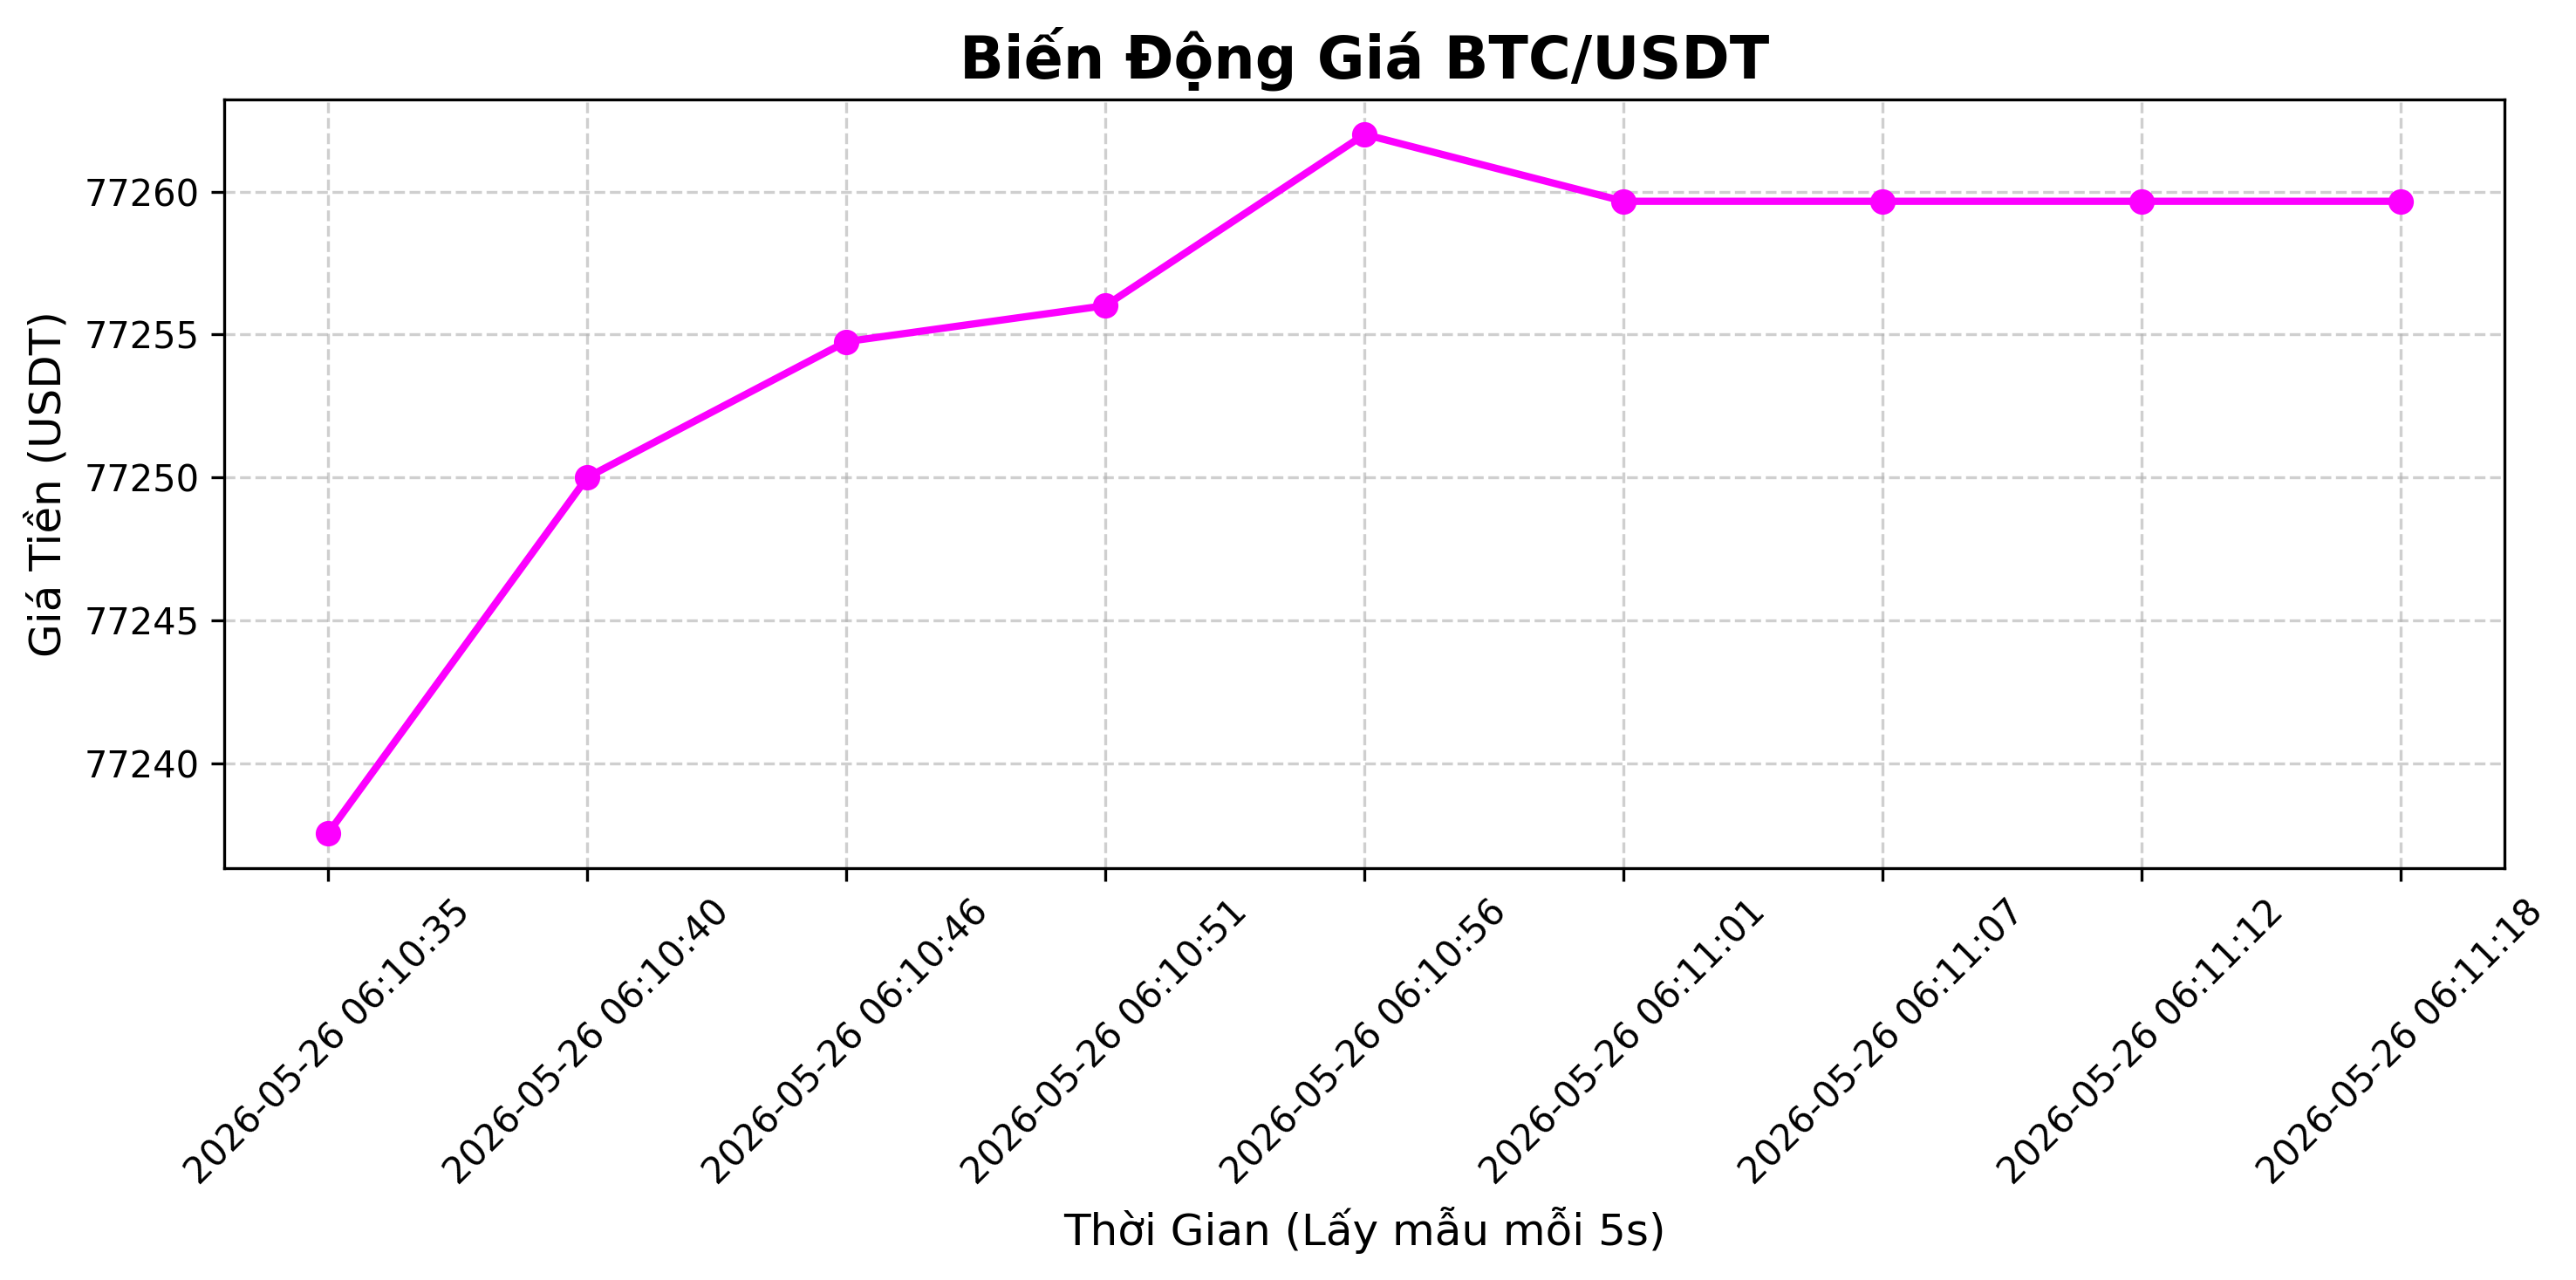
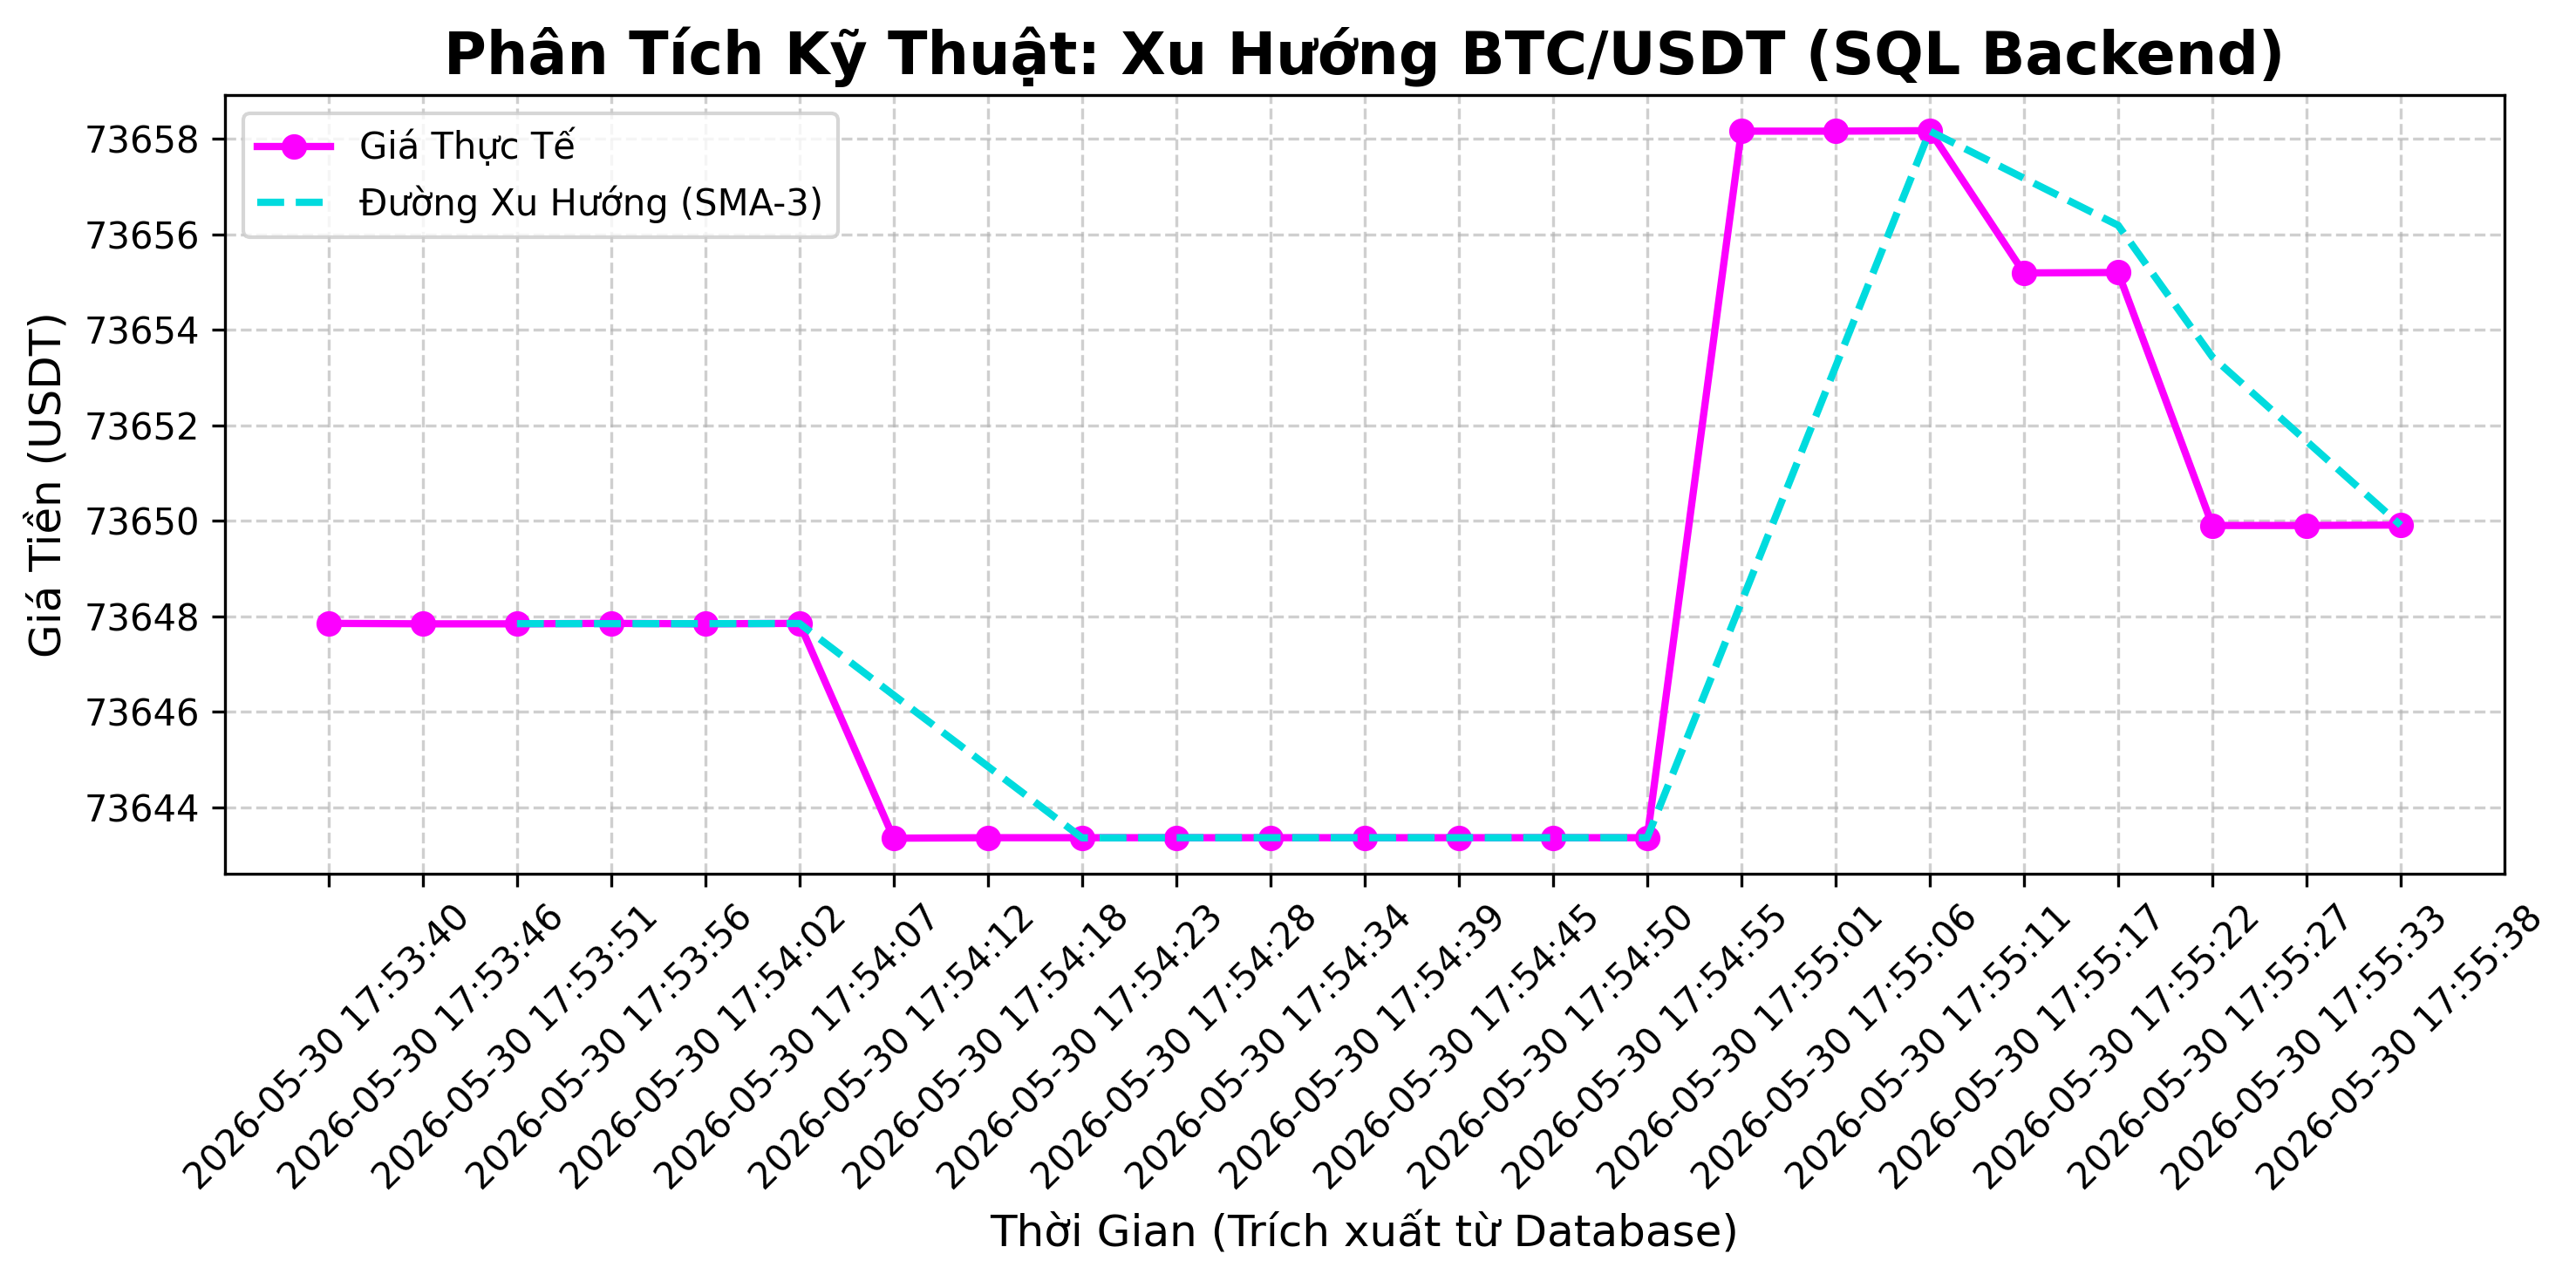
API

diff --git a/index.html b/index.html
@@ -6,7 +6,7 @@
     <title>Portfolio | Mai Xuân Hiếu</title>
     
     <script src="https://cdn.tailwindcss.com"></script>
-    
+    <script src="https://cdn.jsdelivr.net/npm/chart.js"></script>
     <script>
         tailwind.config = {
             darkMode: 'class',
@@ -65,7 +65,7 @@
                 📈 Hệ thống Phân tích Dữ liệu Nội bộ (Code by Python)
             </h3>
             <div class="overflow-hidden rounded-xl border border-slate-200 dark:border-slate-700">
-                <img src="btc_chart.png" alt="Biểu đồ phân tích BTC/USDT" class="w-full object-cover hover:scale-105 transition-transform duration-500">
+                <canvas id="btcChart" class="w-full h-64"></canvas>
             </div>
             <p class="mt-4 text-sm text-slate-500 dark:text-slate-400 italic">
                 * Biểu đồ được cập nhật tự động từ Bot Crawler và xử lý qua thư viện Pandas & Matplotlib.
@@ -130,6 +130,62 @@
                 document.getElementById("cau-hoi-cua-khach").value = ""; 
             }, 1500);
         }
+    </script>
+    <script>
+        // 1. Tạo một biến toàn cục để lưu trữ thực thể biểu đồ
+        let btcChartInstance = null;
+
+        // Hàm đảm nhận việc kết nối API và cập nhật biểu đồ
+        async function capNhatBieuDoRealtime() {
+            try {
+                // Gọi điện tới máy chủ FastAPI (Cổng 8000)
+                const response = await fetch('http://localhost:8000/api/gia-btc');
+                const data = await response.json(); 
+                
+                const ctx = document.getElementById('btcChart').getContext('2d');
+                
+                // 2. NẾU BIỂU ĐỒ CHƯA TỒN TẠI: Khởi tạo lần đầu tiên
+                if (btcChartInstance === null) {
+                    btcChartInstance = new Chart(ctx, {
+                        type: 'line', 
+                        data: {
+                            labels: data.thoi_gian,
+                            datasets: [{
+                                label: 'Giá BTC (USDT) - Realtime',
+                                data: data.gia_usd,
+                                borderColor: '#fc00ff',
+                                backgroundColor: 'rgba(252, 0, 255, 0.1)',
+                                borderWidth: 2,
+                                tension: 0.3,
+                                fill: true
+                            }]
+                        },
+                        options: {
+                            responsive: true,
+                            scales: {
+                                x: { ticks: { maxRotation: 45, minRotation: 45 } }
+                            }
+                        }
+                    });
+                    console.log("✅ Đã khởi tạo biểu đồ động lần đầu tiên.");
+                } 
+                // 3. NẾU BIỂU ĐỒ ĐÃ CÓ SẴN: Chỉ cập nhật dữ liệu mới chứ không vẽ lại
+                else {
+                    btcChartInstance.data.labels = data.thoi_gian; // Thay mảng thời gian mới
+                    btcChartInstance.data.datasets[0].data = data.gia_usd; // Thay mảng giá mới
+                    btcChartInstance.update(); // Kích hoạt hiệu ứng cập nhật mượt mà
+                    console.log("🔄 Biểu đồ đã tự động cập nhật dữ liệu mới từ Backend!");
+                }
+            } catch (error) {
+                console.error("❌ Không thể kết nối tới Backend API:", error);
+            }
+        }
+
+        // Kích hoạt chạy lần đầu ngay khi mở web
+        capNhatBieuDoRealtime();
+
+        // THẦN CHÚ REAL-TIME: Cứ mỗi 5000 mili-giây (5 giây), tự động gọi lại hàm trên một lần
+        setInterval(capNhatBieuDoRealtime, 5000);
     </script>
 </body>
 </html>

diff --git a/phan_tich_btc.py b/phan_tich_btc.py
@@ -1,60 +1,68 @@
 import pandas as pd
-import matplotlib.pyplot as plt # Gọi cọ vẽ ra và đặt tên ngắn gọn là plt
+import matplotlib.pyplot as plt
+import sqlite3
 
-print("📊 Khởi động hệ thống phân tích dữ liệu thị trường...")
-
-ten_file = "lich_su_gia_btc.csv"
+print("📊 Khởi động hệ thống phân tích dữ liệu từ SQL Database...")
 
 try:
-    df = pd.read_csv(ten_file)
+    # BƯỚC 1: Mở cửa nhà kho SQL
+    ket_noi = sqlite3.connect("he_thong_data.db")
     
+    # BƯỚC 2: Viết thư yêu cầu lấy toàn bộ dữ liệu
+    cau_lenh_sql = "SELECT * FROM lich_su_gia"
+    
+    # BƯỚC 3: Dùng Pandas lấy dữ liệu đóng gói thành DataFrame
+    df = pd.read_sql_query(cau_lenh_sql, ket_noi)
+    ket_noi.close()
+    
+    # BƯỚC 4: Bắt đầu tính toán
     if df.empty:
-        print("⚠️ File dữ liệu đang trống rỗng!")
+        print("⚠️ Bảng dữ liệu đang trống rỗng. Hãy chạy 'bot_bitcoin.py' trước!")
     else:
-        print(f"✅ Đã tải thành công {len(df)} bản ghi dữ liệu.\n")
+        print(f"✅ Đã tải thành công {len(df)} bản ghi từ Database.\n")
         
-        gia_cao_nhat = df["Giá BTC (USDT)"].max()
-        gia_thap_nhat = df["Giá BTC (USDT)"].min()
-        gia_trung_binh = df["Giá BTC (USDT)"].mean()
+        # Tính toán đường xu hướng (Trung bình cộng 3 mốc gần nhất)
+        df['SMA_3'] = df['gia_usdt'].rolling(window=3).mean()
+        
+        # Tìm Đỉnh, Đáy, Trung bình trên TOÀN BỘ dữ liệu
+        gia_cao_nhat = df["gia_usdt"].max()
+        gia_thap_nhat = df["gia_usdt"].min()
+        gia_trung_binh = df["gia_usdt"].mean()
         bien_dong = gia_cao_nhat - gia_thap_nhat
         
-        print("================ BÁO CÁO PHÂN TÍCH BTC ================")
+        # In báo cáo ra Terminal
+        print("================ BÁO CÁO PHÂN TÍCH BTC (TỪ SQL) ================")
         print(f"📈 Giá cao nhất (Đỉnh): ${gia_cao_nhat:,.2f}")
         print(f"📉 Giá thấp nhất (Đáy) : ${gia_thap_nhat:,.2f}")
         print(f"⚖️ Giá trung bình      : ${gia_trung_binh:,.2f}")
         print(f"🔄 Biến động (Spread)  : ${bien_dong:,.2f}")
-        print("======================================================")
+        print("================================================================")
 
-        # -------- PHẦN MỚI: MA THUẬT VẼ BIỂU ĐỒ --------
-        print("\n🎨 Đang phác thảo biểu đồ, vui lòng đợi...")
-        
-        # 1. Tạo ra một bức tranh trống kích thước 10x5
+        # Trực quan hóa dữ liệu (Chỉ lấy 30 bản ghi cuối cùng để vẽ cho gọn đẹp)
+        print("\n🎨 Đang xuất biểu đồ từ dữ liệu SQL...")
         plt.figure(figsize=(10, 5)) 
         
-        # 2. Vẽ đường đi của giá (Trục X: Thời gian, Trục Y: Giá)
-        plt.plot(df["Thời gian"], df["Giá BTC (USDT)"], marker='o', color='#fc00ff', linewidth=2)
+        df_ve = df.tail(30) # Cắt lấy 30 dòng cuối
         
-        # 3. Trang trí tiêu đề và nhãn
-        plt.title('Biến Động Giá BTC/USDT', fontsize=16, fontweight='bold')
-        plt.xlabel('Thời Gian (Lấy mẫu mỗi 5s)', fontsize=12)
+        # Vẽ đường giá thực tế
+        plt.plot(df_ve["thoi_gian"], df_ve["gia_usdt"], marker='o', color='#fc00ff', linewidth=2, label='Giá Thực Tế')
+        
+        # Vẽ đường xu hướng
+        plt.plot(df_ve["thoi_gian"], df_ve['SMA_3'], marker='', color='#00dbde', linewidth=2, linestyle='--', label='Đường Xu Hướng (SMA-3)')
+        
+        plt.title('Phân Tích Kỹ Thuật: Xu Hướng BTC/USDT (SQL Backend)', fontsize=16, fontweight='bold')
+        plt.xlabel('Thời Gian (30 mốc gần nhất)', fontsize=12)
         plt.ylabel('Giá Tiền (USDT)', fontsize=12)
-        
-        # 4. Xoay chữ ở trục thời gian nghiêng 45 độ cho khỏi bị đè lên nhau
         plt.xticks(rotation=45) 
-        
-        # 5. Kẻ lưới cho dễ nhìn
         plt.grid(True, linestyle='--', alpha=0.6) 
-        
-        # Căn chỉnh bố cục tự động
+        plt.legend()
         plt.tight_layout() 
         
-        # BẬT BIỂU ĐỒ LÊN MÀN HÌNH!
-        #plt.show() 
-        # LƯU BIỂU ĐỒ THÀNH FILE ẢNH (Thay vì dùng plt.show())
+        # Lưu file ảnh
         plt.savefig('btc_chart.png', dpi=300, bbox_inches='tight')
-        print("✅ Đã lưu thành công biểu đồ vào file 'btc_chart.png'")
+        print("✅ Đã lưu thành công biểu đồ Database vào file 'btc_chart.png'")
 
-except FileNotFoundError:
-    print(f"❌ Không tìm thấy file {ten_file}. Em đã chạy Bot cào dữ liệu chưa?")
+except sqlite3.OperationalError:
+    print("❌ Lỗi: Không tìm thấy file 'he_thong_data.db'. Bạn đã chạy Bot cào giá chưa?")
 except Exception as loi:
-    print("❌ Đã xảy ra lỗi:", loi)
+    print("❌ Đã xảy ra lỗi hệ thống:", loi)

diff --git a/bot_bitcoin.py b/bot_bitcoin.py
@@ -1,45 +1,52 @@
 import requests
-import time       # Trợ thủ canh giờ
-import datetime   # Trợ thủ xem đồng hồ
-import csv        # Trợ thủ ghi sổ sách
+import time
+import datetime
+import sqlite3
 
-print("🚀 Khởi động Siêu Bot theo dõi BTC/USDT...")
-print("Nhấn 'Ctrl + C' bất cứ lúc nào để dừng Bot nhé!\n")
+print("🚀 Khởi động Siêu Bot liên tục cào giá và nạp vào SQL Database...")
+print("Nhấn 'Ctrl + C' để dừng Bot.\n")
 
-# Tên cuốn sổ chúng ta sẽ ghi chép
-ten_file = "lich_su_gia_btc.csv"
+# Kết nối kho
+ket_noi = sqlite3.connect("he_thong_data.db")
+con_tro = ket_noi.cursor()
 
-# Ghi dòng tiêu đề vào file trước khi bắt đầu lặp (chỉ làm 1 lần)
-with open(ten_file, mode='a', newline='', encoding='utf-8') as file:
-    nguoi_viet = csv.writer(file)
-    # Nếu là file mới tinh, ghi 2 cái cột tiêu đề vào
-    nguoi_viet.writerow(["Thời gian", "Giá BTC (USDT)"])
+# Đảm bảo đã có kệ hàng
+con_tro.execute("""
+CREATE TABLE IF NOT EXISTS lich_su_gia (
+    id INTEGER PRIMARY KEY AUTOINCREMENT,
+    thoi_gian TEXT,
+    gia_usdt REAL
+)
+""")
+ket_noi.commit()
 
-# URL API của Binance
 url = "https://api.binance.com/api/v3/ticker/price?symbol=BTCUSDT"
 
-# VÒNG LẶP VÔ TẬN: Dạy Bot làm việc liên tục
 while True:
     try:
-        # 1. Chạy đi lấy dữ liệu
+        # Cào giá từ Binance
         response = requests.get(url)
         data = response.json()
         gia_btc = float(data["price"])
         
-        # 2. Xem đồng hồ lấy thời gian hiện tại
         thoi_gian_hien_tai = datetime.datetime.now().strftime("%Y-%m-%d %H:%M:%S")
         
-        # 3. In ra Terminal cho Sếp Hiếu xem
-        print(f"[{thoi_gian_hien_tai}] 💰 Giá BTC: ${gia_btc:,.2f}")
+        print(f"[{thoi_gian_hien_tai}] 💰 Giá BTC: ${gia_btc:,.2f} -> Đang nạp vào SQL...")
         
-        # 4. Âm thầm mở sổ CSV và ghi nối tiếp vào cuối file (mode='a' là append)
-        with open(ten_file, mode='a', newline='', encoding='utf-8') as file:
-            nguoi_viet = csv.writer(file)
-            nguoi_viet.writerow([thoi_gian_hien_tai, gia_btc])
-            
-        # 5. Nghỉ ngơi 5 giây trước khi chạy vòng lặp tiếp theo
+        # Nạp dữ liệu mới vào SQL
+        cau_lenh_sql = "INSERT INTO lich_su_gia (thoi_gian, gia_usdt) VALUES (?, ?)"
+        du_lieu_nap = (thoi_gian_hien_tai, gia_btc)
+        con_tro.execute(cau_lenh_sql, du_lieu_nap)
+        ket_noi.commit()
+        
+        # Ngủ 5 giây rồi cào tiếp
         time.sleep(5)
 
+    except KeyboardInterrupt:
+        print("\n🛑 Sếp đã dừng Bot.")
+        break
     except Exception as loi:
-        print("❌ Bot vấp ngã! Đang chờ 5s để thử lại... Lỗi:", loi)
-        time.sleep(5) # Lỗi cũng phải cho nó nghỉ rồi mới gọi lại, không là sập mạng
+        print("❌ Lỗi mạng:", loi)
+        time.sleep(5)
+
+ket_noi.close()

diff --git a/api.py b/api.py
@@ -1,0 +1,43 @@
+from fastapi import FastAPI
+from fastapi.middleware.cors import CORSMiddleware
+import sqlite3
+
+# Khởi tạo Máy chủ
+app = FastAPI()
+
+# BẬT TÍNH NĂNG CORS (Cho phép truy cập từ mọi nguồn)
+# Nó giống như một giấy phép thông hành, cho phép trang web HTML
+# (đang chạy ở một cổng khác) được quyền lấy dữ liệu từ máy chủ Python này.
+app.add_middleware(
+    CORSMiddleware,
+    allow_origins=["*"],  # Cho phép tất cả nguồn truy cập
+    allow_methods=["*"],  # Cho phép tất cả phương thức HTTP (GET, POST, v.v.)
+    allow_headers=["*"],  # Cho phép tất cả các header
+)
+# Định tuyến Routing : tạo ra đường dẫn /api/gia-btc
[email redacted]("/api/gia-btc")
+def lay_du_lieu_bitocin():
+   # 1. Mở cửa kho SQL
+    ket_noi = sqlite3.connect("he_thong_data.db")
+    con_tro = ket_noi.cursor()
+    
+    # 2. Lấy 20 mốc giá gần nhất (Tránh lấy cả nghìn dòng làm web bị chậm)
+    con_tro.execute("SELECT thoi_gian, gia_usdt FROM lich_su_gia ORDER BY id DESC LIMIT 20")
+    du_lieu = con_tro.fetchall()
+    ket_noi.close()
+    
+    # 3. Phân loại dữ liệu thô thành 2 danh sách riêng biệt
+    thoi_gian_list = []
+    gia_list = []
+    
+    # Vì lấy ngược từ dưới lên (DESC) để được dữ liệu mới nhất, 
+    # ta phải dùng lệnh 'reversed' để lật ngược mảng lại từ trái qua phải cho đúng trục thời gian
+    for dong in reversed(du_lieu): 
+        thoi_gian_list.append(dong[0])
+        gia_list.append(dong[1])
+        
+    # 4. Đóng gói thành chuẩn JSON quốc tế và trả về cho người dùng
+    return {
+        "thoi_gian": thoi_gian_list,
+        "gia_usd": gia_list
+    }